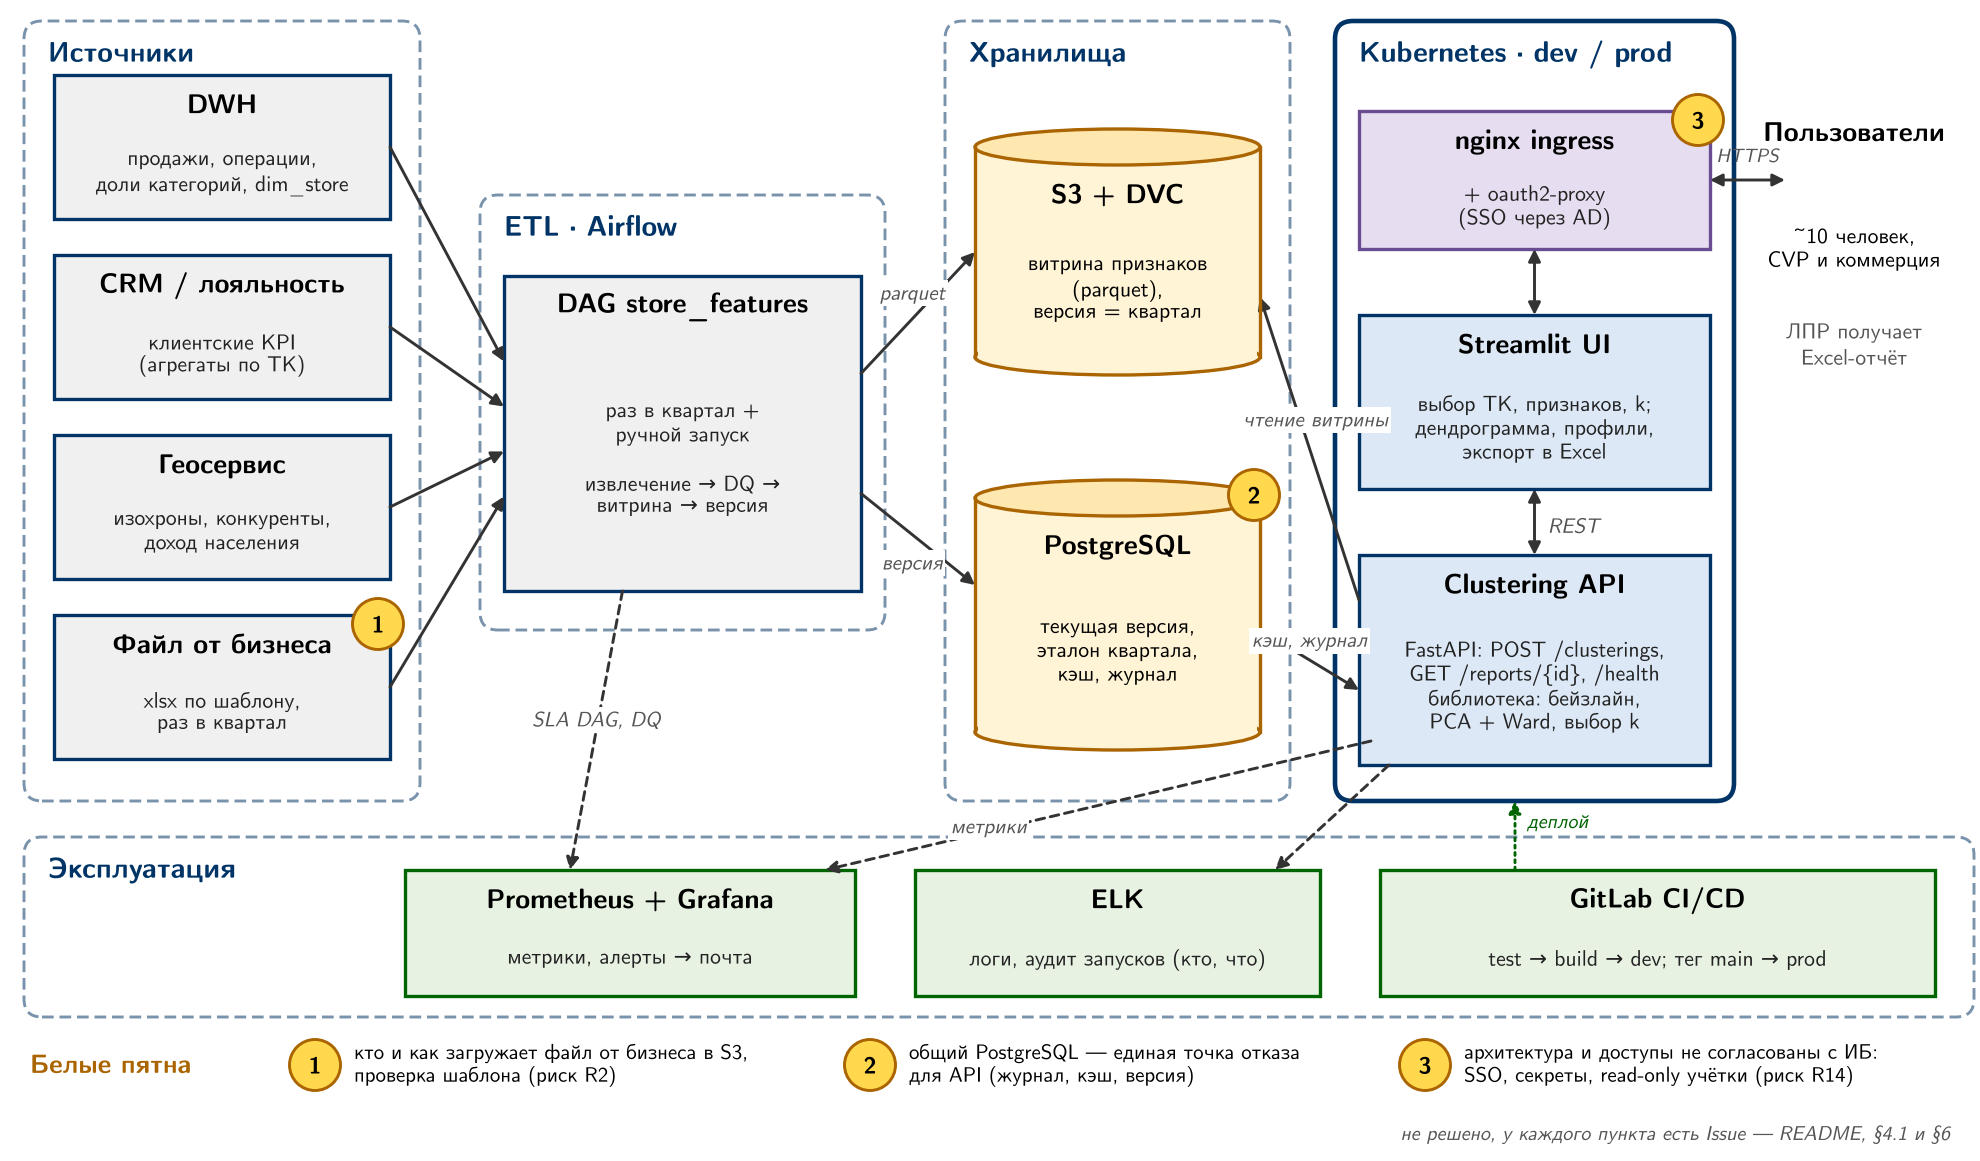
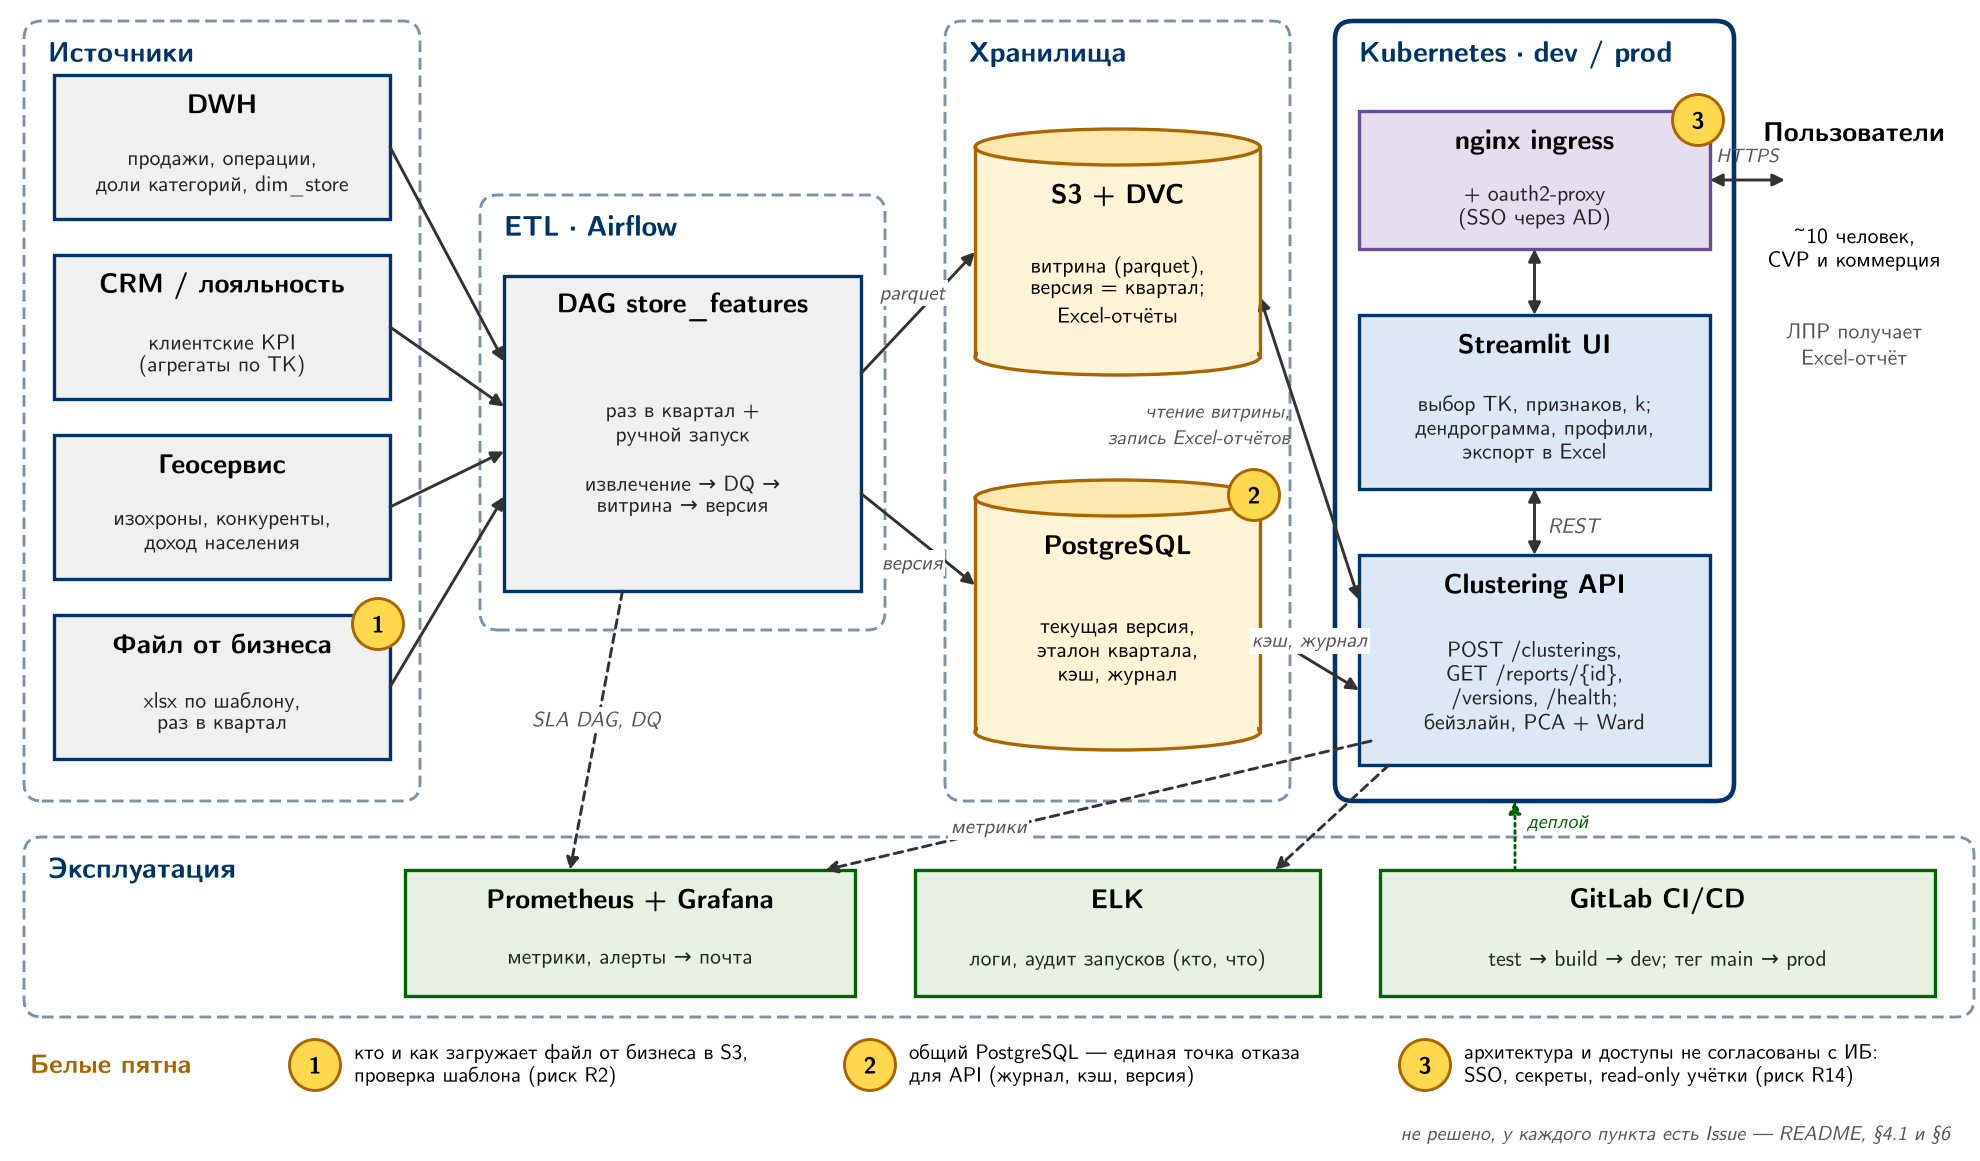
docs(architecture): GET /versions и запись Excel-отчётов в S3
Closes #30

Changed region(s): [[0.7086, 0.5581, 0.8318, 0.6512], [0.5545, 0.3411, 0.7086, 0.4031], [0.5237, 0.2171, 0.6162, 0.2791]]

diff --git a/diagrams/arch.py b/diagrams/arch.py
@@ -85,7 +85,7 @@ for s in S:
 
 # ---- хранилища
 group(3.15, 0.78, 1.15, 2.6, "Хранилища")
-s3 = cyl(3.25, 2.2, 0.95, 0.82, "S3 + DVC", "витрина признаков\n(parquet),\nверсия = квартал")
+s3 = cyl(3.25, 2.2, 0.95, 0.82, "S3 + DVC", "витрина (parquet),\nверсия = квартал;\nExcel-отчёты")
 pg = cyl(3.25, 0.95, 0.95, 0.9, "PostgreSQL", "текущая версия,\nэталон квартала,\nкэш, журнал")
 arr((dag["r"], dag["cy"] + 0.2), (s3["l"], s3["cy"]), label="parquet", lpos=0.45)
 arr((dag["r"], dag["cy"] - 0.2), (pg["l"], pg["cy"] + 0.1), label="версия", lpos=0.45, loff=(0, -0.13))
@@ -95,11 +95,14 @@ group(4.45, 0.78, 1.33, 2.6, "Kubernetes · dev / prod", solid=True)
 ing = box(4.53, 2.62, 1.17, 0.46, "nginx ingress", "+ oauth2-proxy\n(SSO через AD)", fc="#E6DDF0", ec="#6A4C93")
 ui = box(4.53, 1.82, 1.17, 0.58, "Streamlit UI", "выбор ТК, признаков, k;\nдендрограмма, профили,\nэкспорт в Excel",
          fc="#DCE8F5")
-api = box(4.53, 0.9, 1.17, 0.7, "Clustering API", "FastAPI: POST /clusterings,\nGET /reports/{id}, /health\n"
-          "библиотека: бейзлайн,\nPCA + Ward, выбор k", fc="#DCE8F5")
+api = box(4.53, 0.9, 1.17, 0.7, "Clustering API", "POST /clusterings,\nGET /reports/{id},\n/versions, /health;\n"
+          "бейзлайн, PCA + Ward", fc="#DCE8F5")
 arr((ing["cx"], ing["b"]), (ui["cx"], ui["t"]), both=True)
 arr((ui["cx"], ui["b"]), (api["cx"], api["t"]), both=True, label="REST", loff=(0.13, -0.05))
-arr((api["l"], api["cy"] + 0.2), (s3["r"], s3["cy"] - 0.15), label="чтение витрины", lpos=0.5, loff=(0.02, 0.06))
+# API читает витрину и записывает в S3 Excel-отчёты (README, §4.2 и §4.8)
+arr((s3["r"], s3["cy"] - 0.15), (api["l"], api["cy"] + 0.2), both=True)
+ax.text(4.3, 2.03, "чтение витрины,\nзапись Excel-отчётов", fontsize=4.8, color=GRAY, style="italic", ha="right",
+        va="center", linespacing=1.1)
 arr((api["l"], api["cy"] - 0.1), (pg["r"], pg["cy"] - 0.05), both=True, label="кэш, журнал", loff=(0, 0.03))
 
 # ---- пользователь
